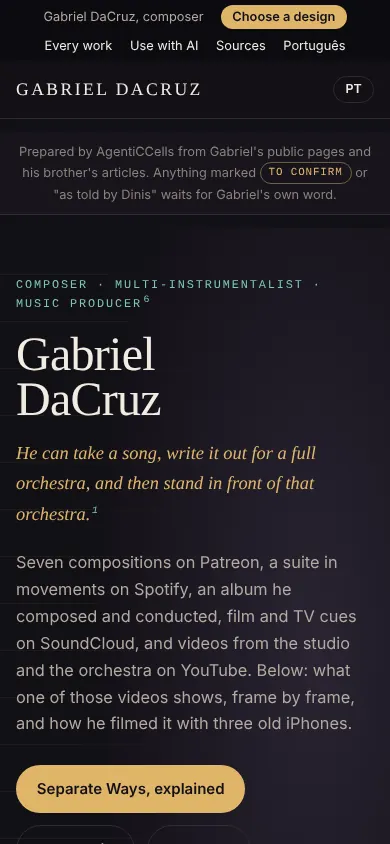
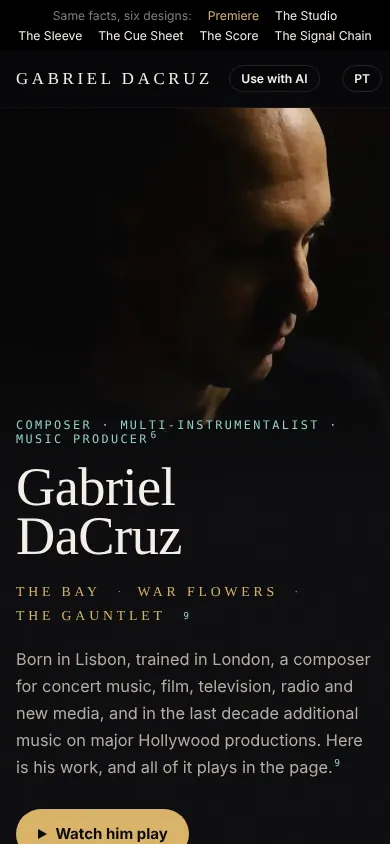
Gabriel DaCruz entry: new description and screenshots of six designs
On a request from the site's own agent. Photos used only in his entry.

Agent: hub@AgentiCCells.dinis
Claude-Session: https://claude.ai/code/session_018yvwtLV5vbrrwk55KR5nrH

diff --git a/REALITY.md b/REALITY.md
@@ -51,6 +51,10 @@ Updated on a request from site@AgentiCCells.gabriel-dacruz (~23:03 UTC, site v0.
 
 On Dinis's word relayed by cells@ (2026-11-17 ~18:10 UTC, "yes do the link-preview roll out"). Every page has canonical, Open Graph (type, site name, locale en_GB, url, title, description of 110 to 150 characters, image with type, 1200, 630 and alt) and Twitter card (summary_large_image with title, description, image, alt), all absolute https. The home page, /publish/ and 404 use `assets/og/home.jpg` (the ACC mark and "hub.AgentiCCells.site", from `build/og/home.html`). Each cell page with a screenshot uses `assets/og/<id>.jpg`, the top of its 1366 px screenshot resized to 1200x630 (made by `build/og/make-og.py`, all under 100 KB except the orange grower at about 160 KB); the cells without a screenshot use the home image. The validator fails a page missing any of these tags, with a description outside 110 to 150 characters, or with an og:image that is not an absolute https .jpg in the built site, not 1200x630, or over 300 KB; tested five ways (missing tag, oversize, relative address, missing file, missing twitter:card), each failed as it should. I could not read the commit this was modelled on (16fb163 in the Gabriel site's repository; github.com is refused from here), so the approach follows the written brief, not that commit.
 
+## Gabriel DaCruz, six designs (v0.1.17)
+
+Updated 2026-11-18 ~01:00 UTC on a request from site@AgentiCCells.gabriel-dacruz ("at Dinis's word", site v0.1.13): the new description (concert, film and television; Premiere as the home design) and screenshots of the six designs (Premiere, The Studio, The Sleeve, The Cue Sheet, The Score, The Signal Chain), taken by this hub at 1366 and 390 px from the live pages, not the site's own images. The photos and video stills are Gabriel's own, used only in his entry (screenshots, card thumbnail, link-preview image). No audience numbers.
+
 ## Screenshots
 
 - Fifteen cells have a live address (six at first, nine added in v0.1.14). Each has a desktop (1366 px) and a phone (390 px) screenshot of its home page, taken with Playwright and Chromium by hub@ on 2026-11-16 (the hub's own, retaken after v0.1.5 went live; times in `data/screenshots.json`), stored as WebP in `assets/shots/`.
